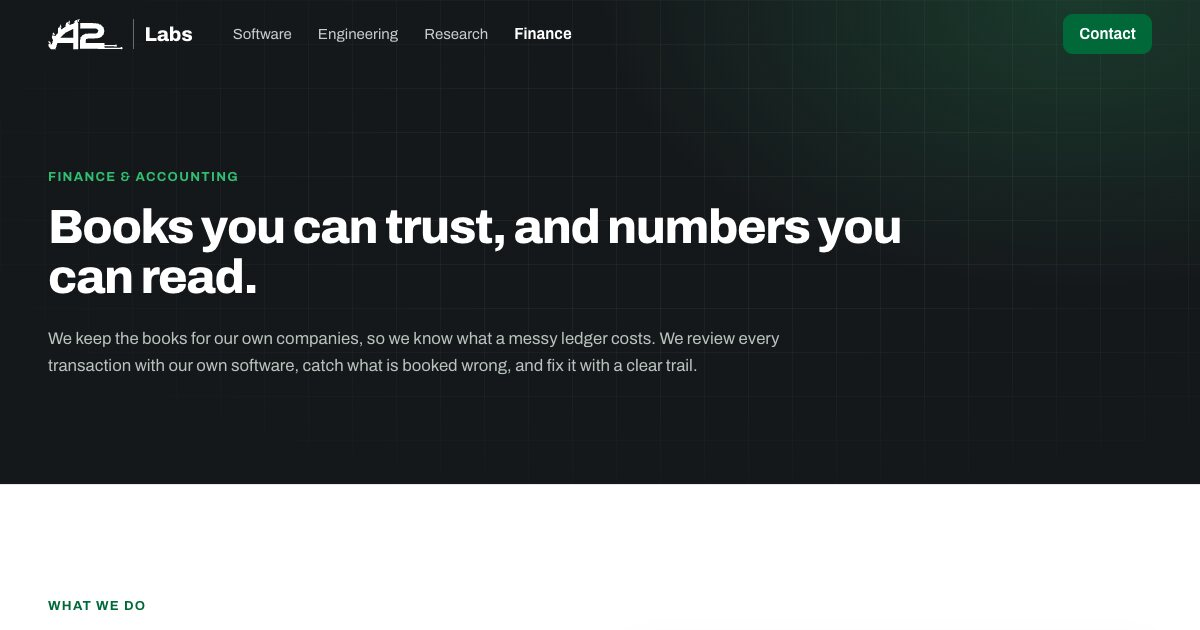
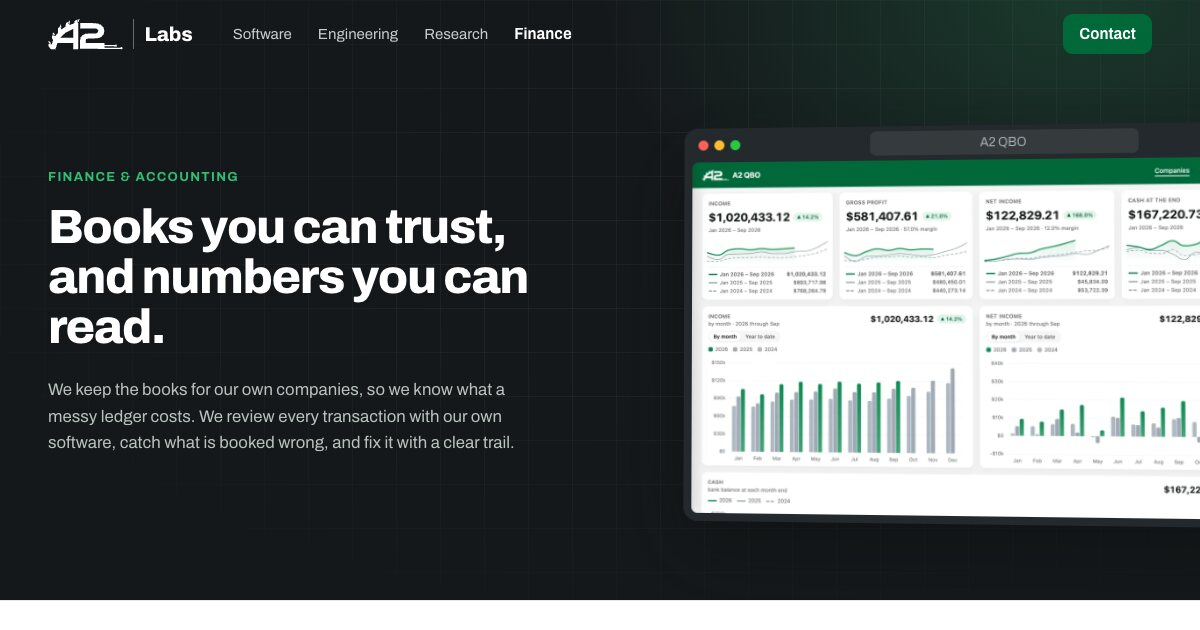
Finance header gets the A2 QBO dashboard; source art moves to art/
The Finance page had a plain header: it now shows the dashboard screenshot
on the right, like the home hero (hidden below tablet width). The AI source
images live in art/ under their names, and build-images.sh reads them there.

Claude-Session: https://claude.ai/code/session_012cbtMP4PKFxgYyhK3oRstV

diff --git a/src/styles/global.css b/src/styles/global.css
@@ -463,6 +463,28 @@ h4 {
   position: relative;
 }
 
+/* A screenshot on the right of a service page header (Finance). */
+.page-hero.has-art {
+  padding: 168px 0 128px;
+  min-height: clamp(600px, 40vw, 760px);
+}
+
+.page-hero.has-art .page-hero-inner h1,
+.page-hero.has-art .page-hero-inner .lead {
+  max-width: min(46rem, 44%);
+}
+
+.page-hero-art {
+  position: absolute;
+  top: 128px;
+  right: max(-60px, calc((100vw - 1640px) / 2 - 20px));
+  width: min(48%, 820px);
+}
+
+.page-hero-art .window {
+  box-shadow: var(--shadow-lg);
+}
+
 .page-hero h1 {
   max-width: 54rem;
   font-size: clamp(2.3rem, 4vw, 4rem);
@@ -1461,6 +1483,15 @@ h4 {
 
   .split.reverse .split-art {
     order: 0;
+  }
+
+  .page-hero-art {
+    display: none;
+  }
+
+  .page-hero.has-art .page-hero-inner h1,
+  .page-hero.has-art .page-hero-inner .lead {
+    max-width: none;
   }
 
   .hero-art {

diff --git a/README.md b/README.md
@@ -27,7 +27,8 @@ npm run build    # static site in dist/
 | `src/data/site.ts` | Name, email, phone, city, copyright year |
 | `src/data/shots.ts` | Screenshot file names, sizes and alt text |
 | `public/shots/` | Screenshots (WebP, plus smaller `-1280`/`-400` copies for `srcset`) |
-| `public/img/` | Logo and backgrounds (AVIF + WebP made from the AI-generated `1.png`-`3.png`, which stay out of git) |
+| `art/` | AI-generated source backgrounds (PNG); not served |
+| `public/img/` | Logo and web copies of the backgrounds (AVIF + WebP, from `art/`) |
 | `tools/build-images.sh` | Regenerates the web copies of backgrounds and screenshots |
 
 ## Screenshots: demo data only
